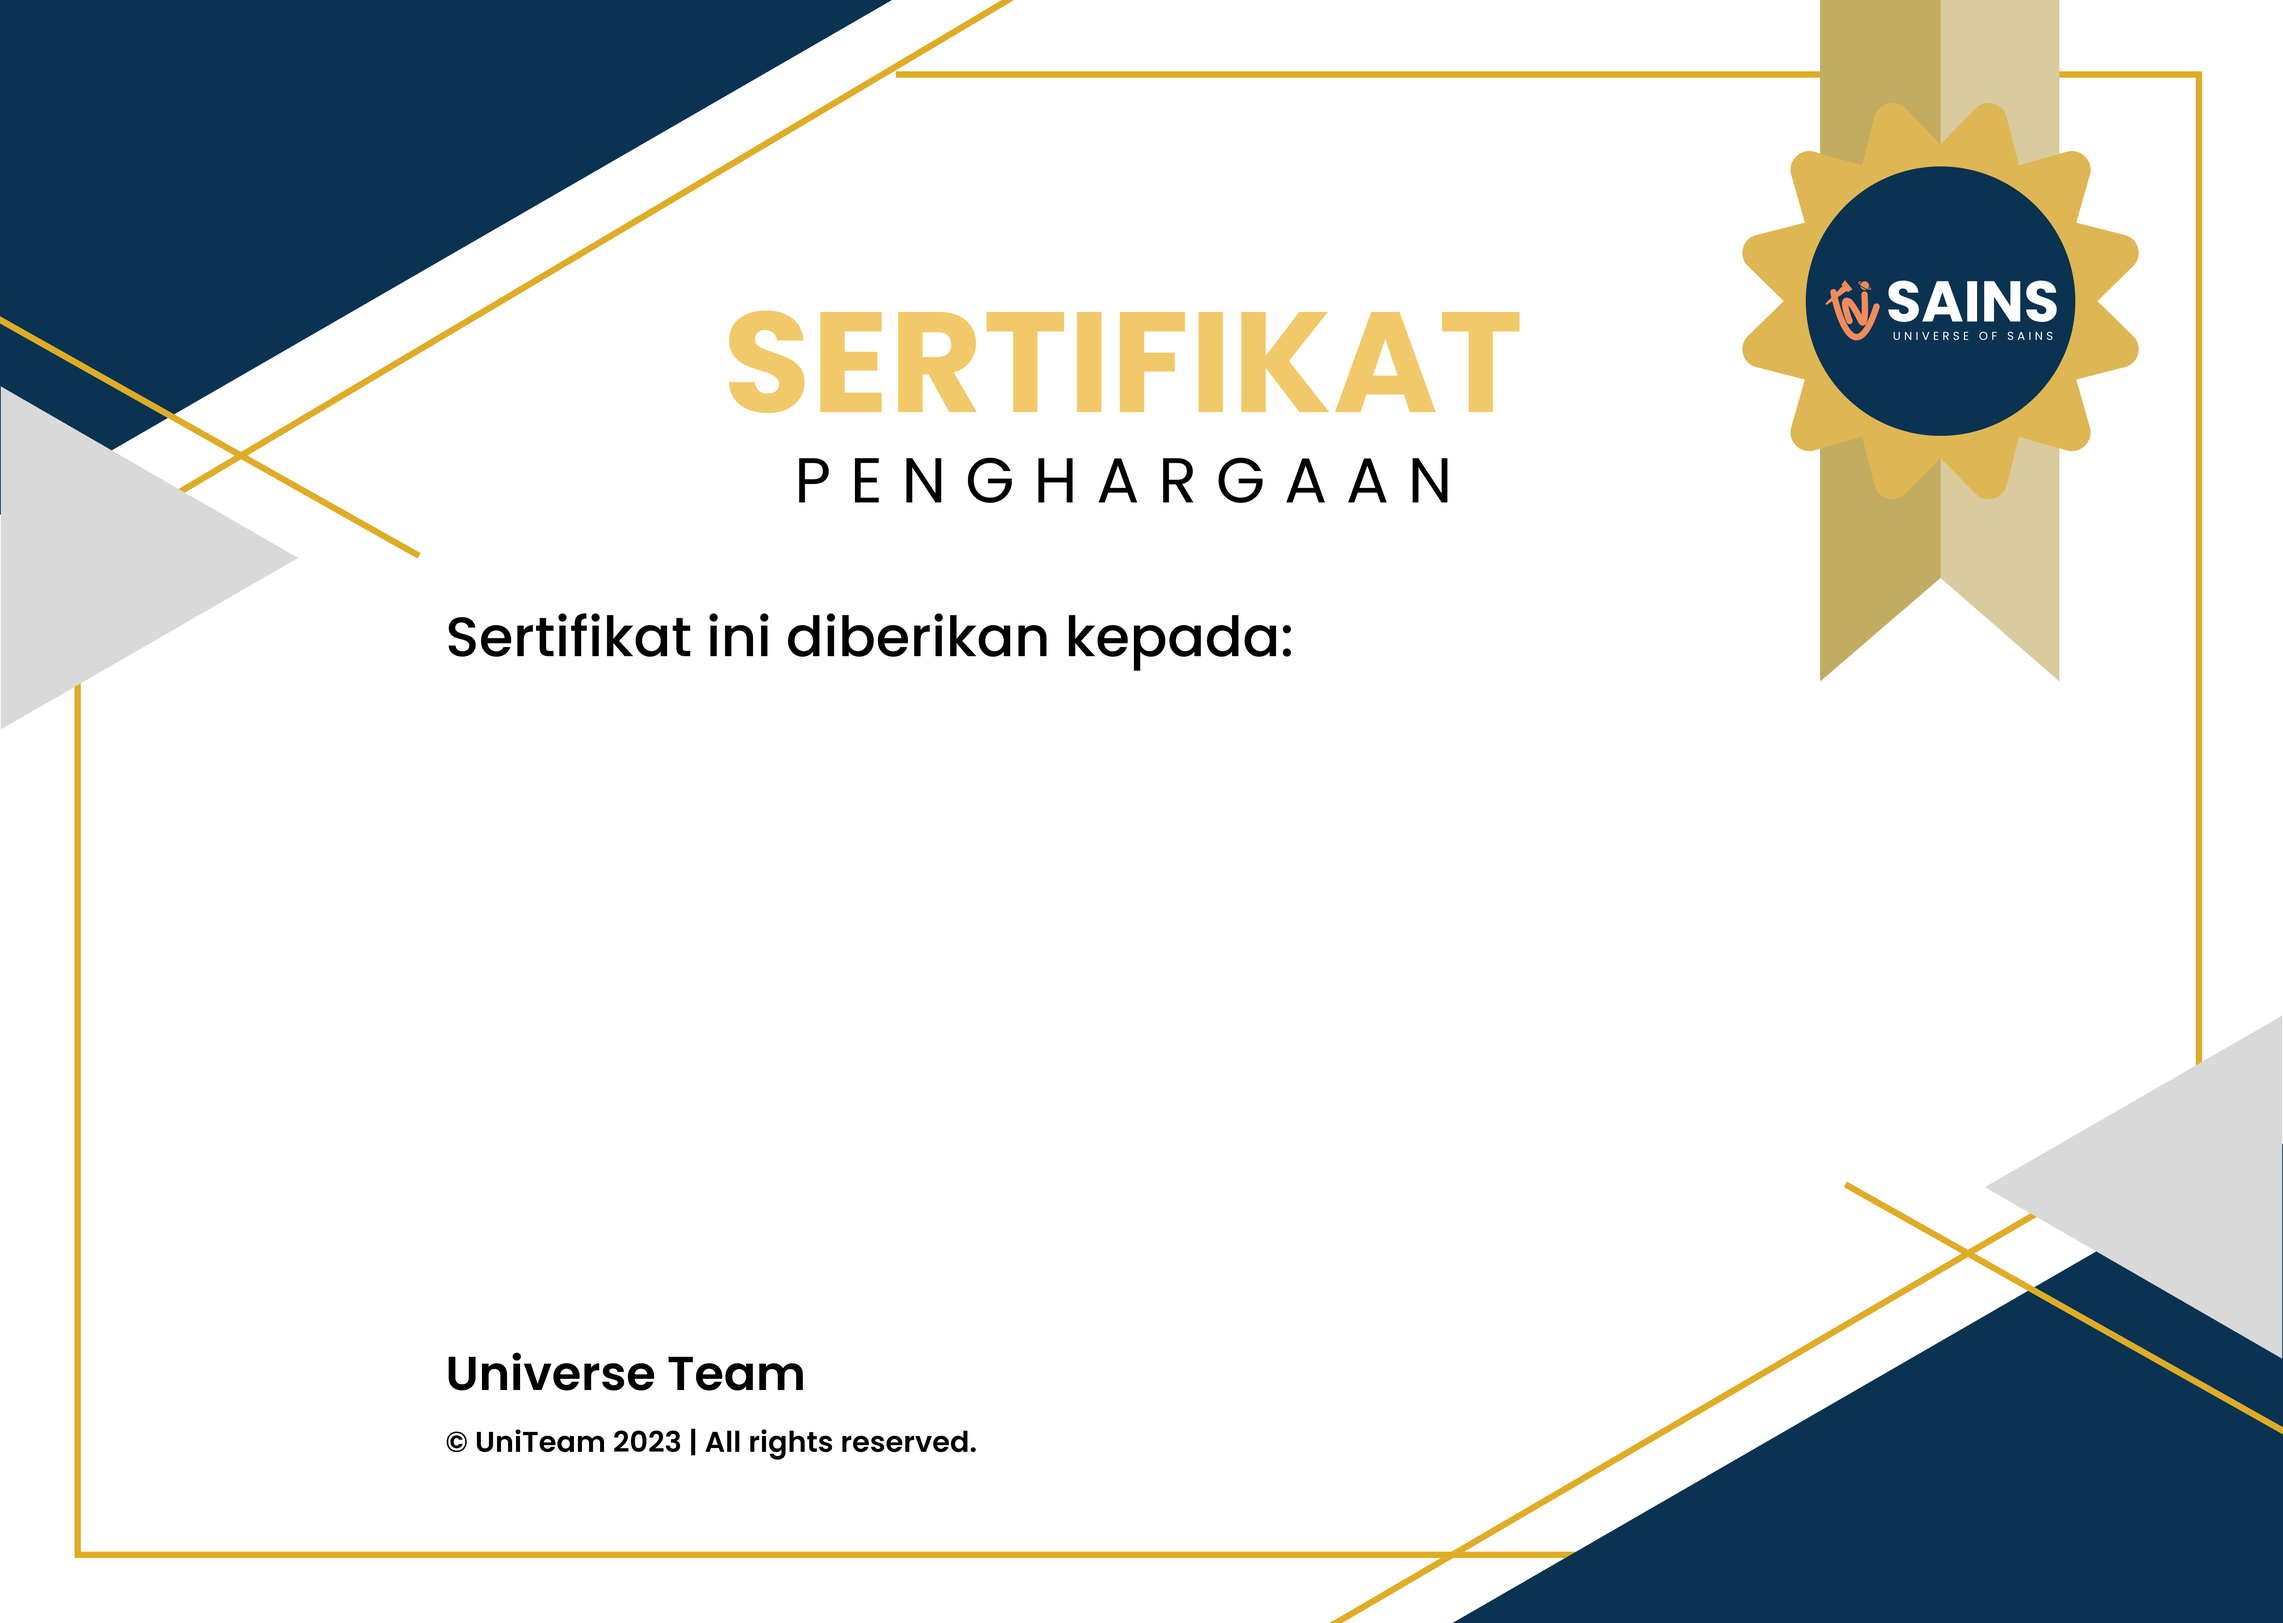
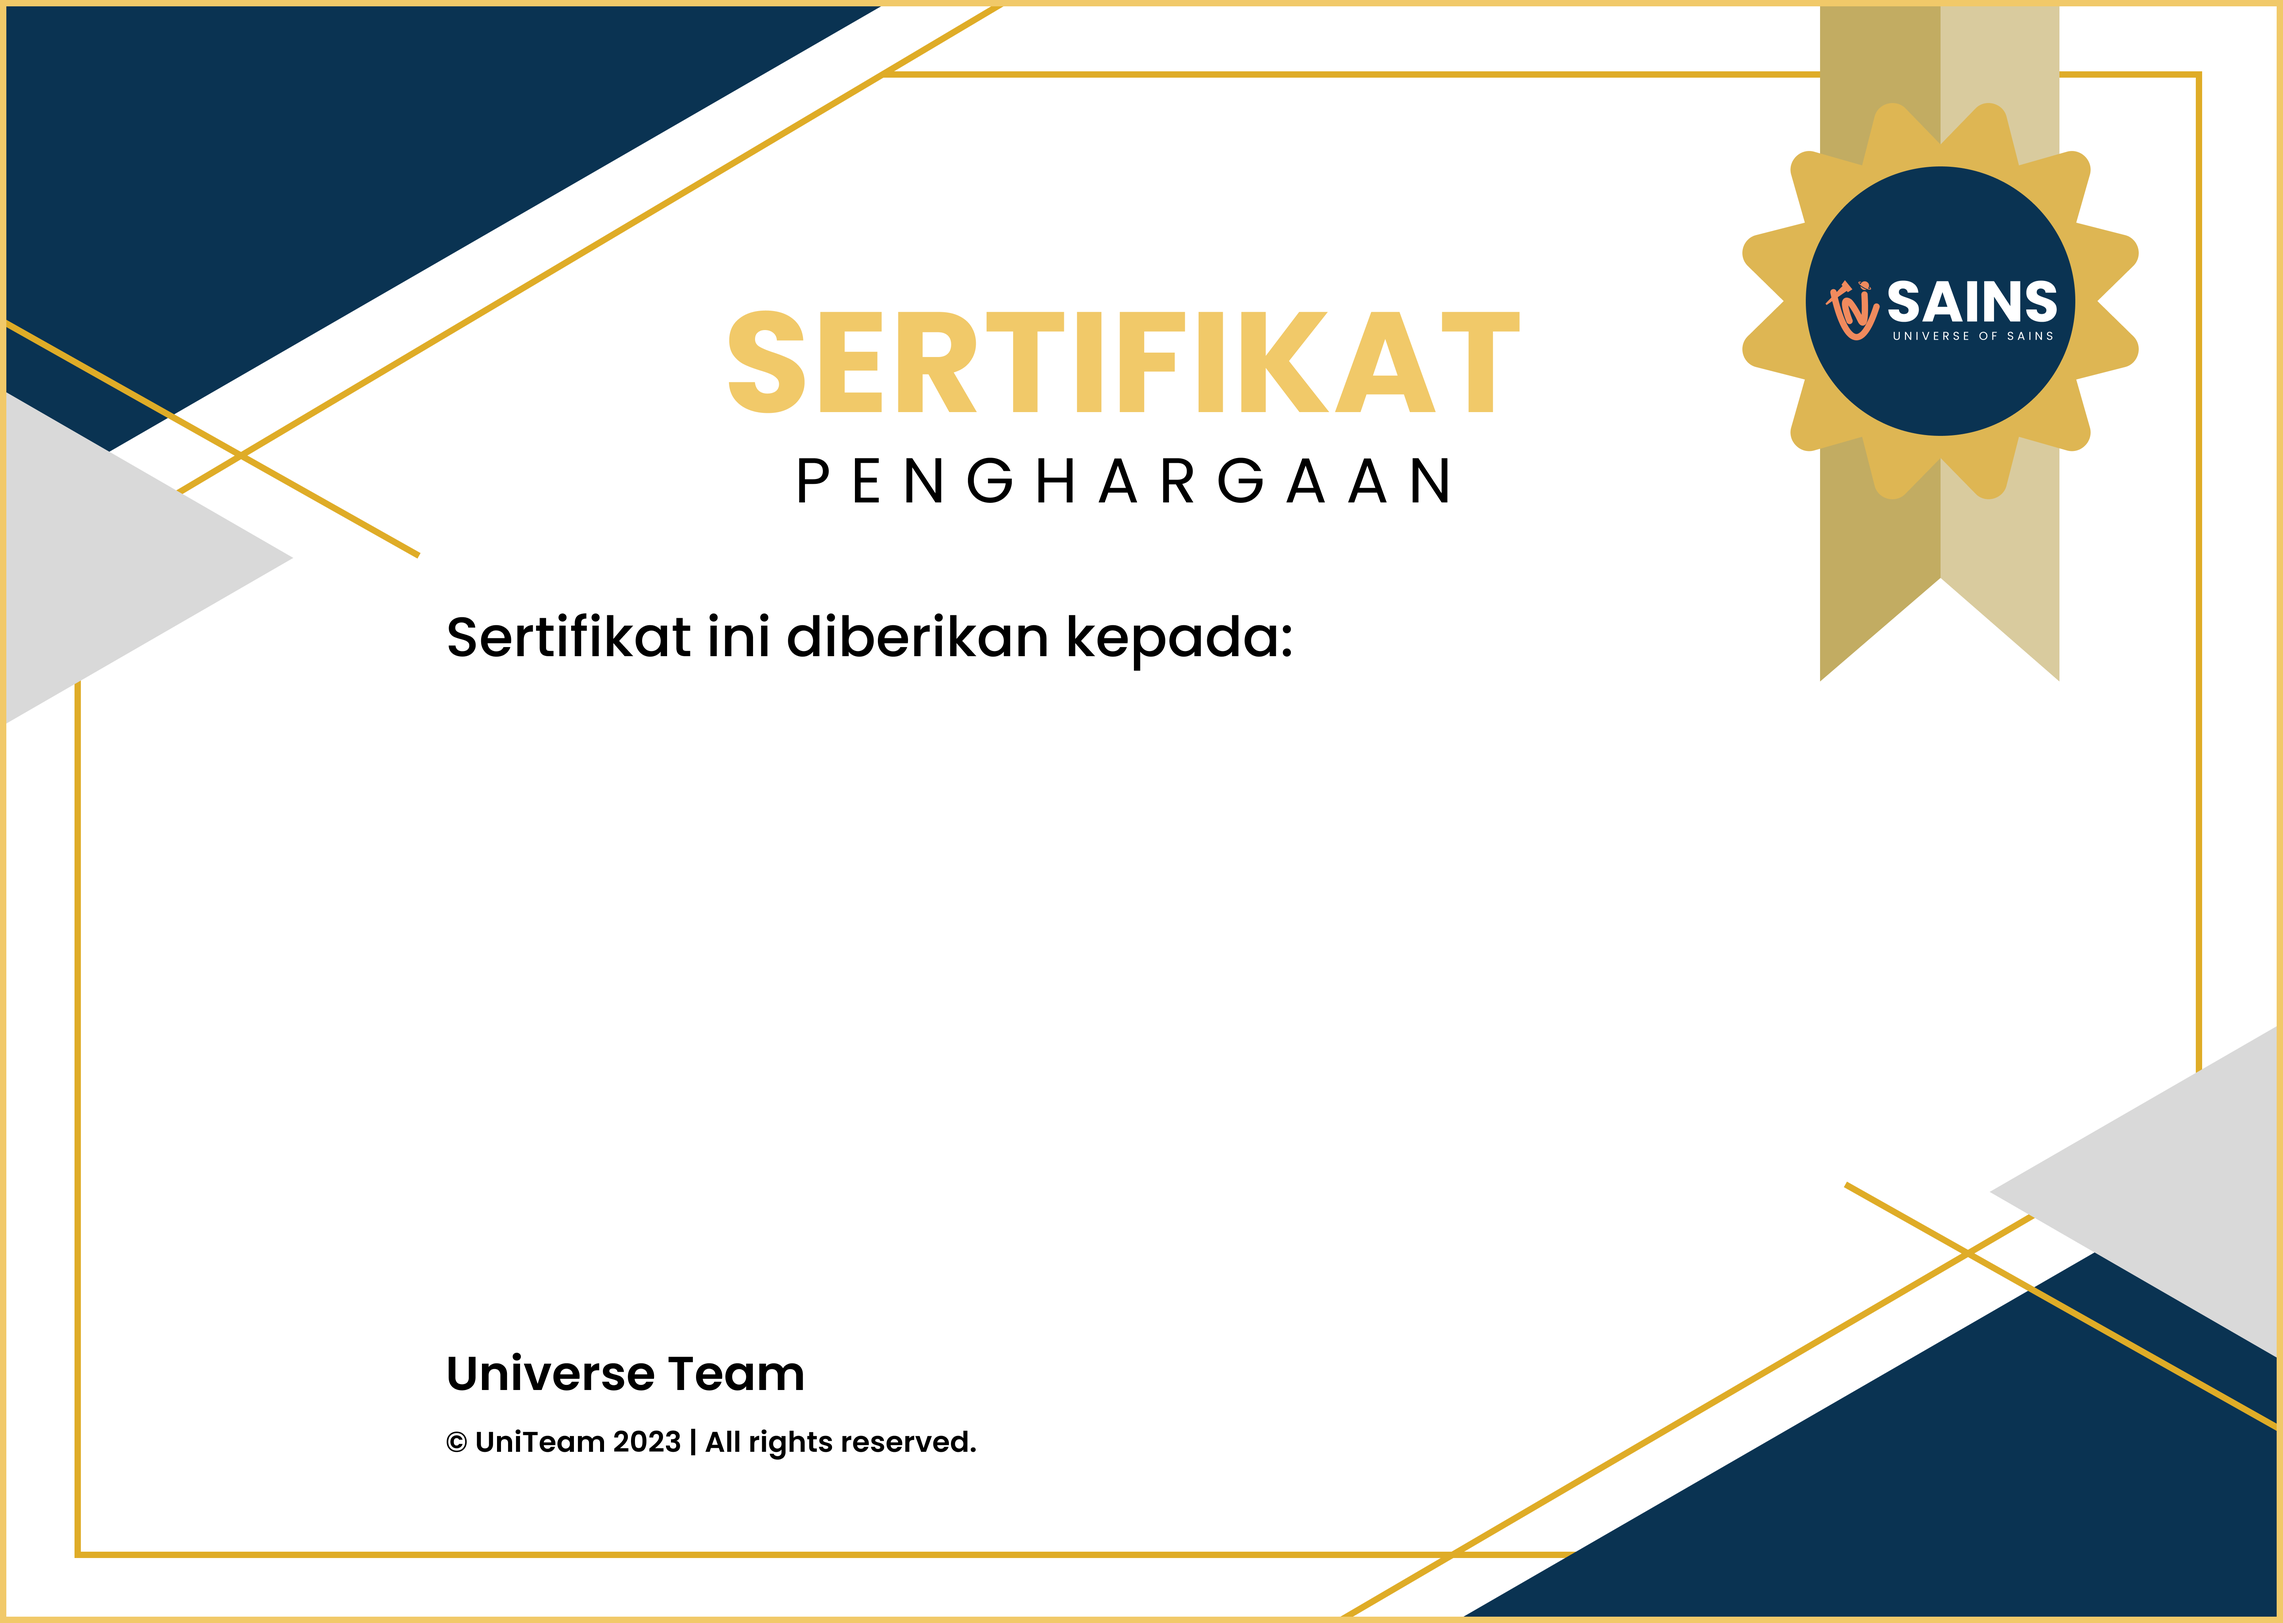
generate certif done. but still use dummy

diff --git a/resources/js/generatecertificate.js b/resources/js/generatecertificate.js
@@ -12,11 +12,11 @@ const generateCertificate = (name, course, date) => {
     doc.pipe(fs.createWriteStream(`public/certificate/${name}.pdf`));
     doc.image('public/img/sertifikat.png', 0, 0, { width: 842 });
     doc.fontSize(40);
-    doc.text(name, 420, 400, { align: 'center' });
-    doc.fontSize(15);
+    doc.font('Poppins-bold').fontSize(40).text(name, 420, 400, { align: 'center' });
     doc.text(course, 420, 450, { align: 'center' });
     doc.fontSize(15);
-    doc.text(date, 420, 500, { align: 'center' });
+    doc.font('Poppins-regular').fontSize(15).text(date, 420, 500, { align: 'center' });
+
     doc.end();
 }
 

diff --git a/resources/views/certificate/generator.blade.php b/resources/views/certificate/generator.blade.php
@@ -2,19 +2,61 @@
 <html>
 <head>
     <style>
-        /* Define any additional styles you need for the certificate */
+        /* Load the Poppins font */
+        {{--@font-face {--}}
+        {{--    font-family: 'Poppins';--}}
+        {{--    font-weight: 400;--}}
+        {{--    src: url("{{ public_path('fonts/Poppins-Regular.ttf') }}") format('truetype');--}}
+        {{--}--}}
+
+        {{--@font-face {--}}
+        {{--    font-family: 'Poppins';--}}
+        {{--    font-weight: 700;--}}
+        {{--    src: url("{{ public_path('fonts/Poppins-ExtraBold.ttf') }}") format('truetype');--}}
+        {{--}--}}
+
+        /* Apply the font to the certificate text */
+        body {
+            font-family: 'Poppins', sans-serif;
+            position: relative;
+        }
+
+        .name {
+            position: absolute;
+            top: 330px;
+            transform: translateX(-50%);
+            left: 50%;
+            font-size: 48px;
+            font-weight: bold;
+        }
+
+        .course {
+            position: absolute;
+            top: 420px;
+            font-size: 20px;
+        /*    align x = ceenter*/
+            transform: translateX(-50%);
+            left: 50%;
+        }
+
+        .date {
+            font-size: 22px;
+            position: absolute;
+            top: 460px;
+            transform: translateX(-50%);
+            left: 50%;
+        }
+        .certif {
+            position: absolute;
+            top: 0;
+            left: 0;
+        }
     </style>
 </head>
 <body>
-<img src="{{ public_path('img/sertifikat.png') }}" width="842">
-<div style="position: absolute; top: 400px; left: 420px; font-size: 40px; font-weight: bold;">
-    {{ $name }}
-</div>
-<div style="position: absolute; top: 450px; left: 420px; font-size: 15px;">
-    {{ $course }}
-</div>
-<div style="position: absolute; top: 500px; left: 420px; font-size: 15px;">
-    {{ $date }}
-</div>
+<img class="certif" src="{{ public_path('img/sertifikat.png') }}" width="1024">
+<div class="name">{{ $name }}</div>
+<div class="course">Telah menyelesaikan {{ $course }} di UNISAINS.</div>
+<div class="date">{{ $date }}</div>
 </body>
 </html>

diff --git a/app/Helpers/CertificateGenerator.php b/app/Helpers/CertificateGenerator.php
@@ -8,16 +8,11 @@ use PDF;
 
 class CertificateGenerator
 {
-//    public static function generate($name, $course, $date)
-//    {
-//        $pdf = \Barryvdh\DomPDF\Facade\Pdf::loadView('certificate.generator', compact('name', 'course', 'date'));
-//        $pdf->save(public_path('storage/images/certificate/' . $name . '.pdf'));
-//    }
     public static function generate($name, $course, $date)
     {
         $pdf = \Barryvdh\DomPDF\Facade\Pdf::loadView('certificate.generator', compact('name', 'course', 'date'));
         $pdf->setPaper('A4', 'landscape'); // Set the orientation to landscape
-        $pdf->save(public_path('storage/images/certificate/' . $name . '.pdf'));
+        $pdf->save(public_path('storage/images/certificate/' . $name . time() . '.pdf'));
     }
 
 

diff --git a/app/Http/Controllers/Api/V1/TeacherController.php b/app/Http/Controllers/Api/V1/TeacherController.php
@@ -69,9 +69,11 @@ class TeacherController extends Controller
     public function generate()
     {
         try {
-            CertificateGenerator::generate('John Awok', 'Certificate of Completion', '2023-08-03');
+            CertificateGenerator::generate('Lionel Messi K', 'Jantung Angry Bird', '2023-08-03');
             return response()->json([
                 'message' => 'success',
+//                link to certificate
+
             ], 200);
         } catch (\Exception $e) {
             return response()->json([
